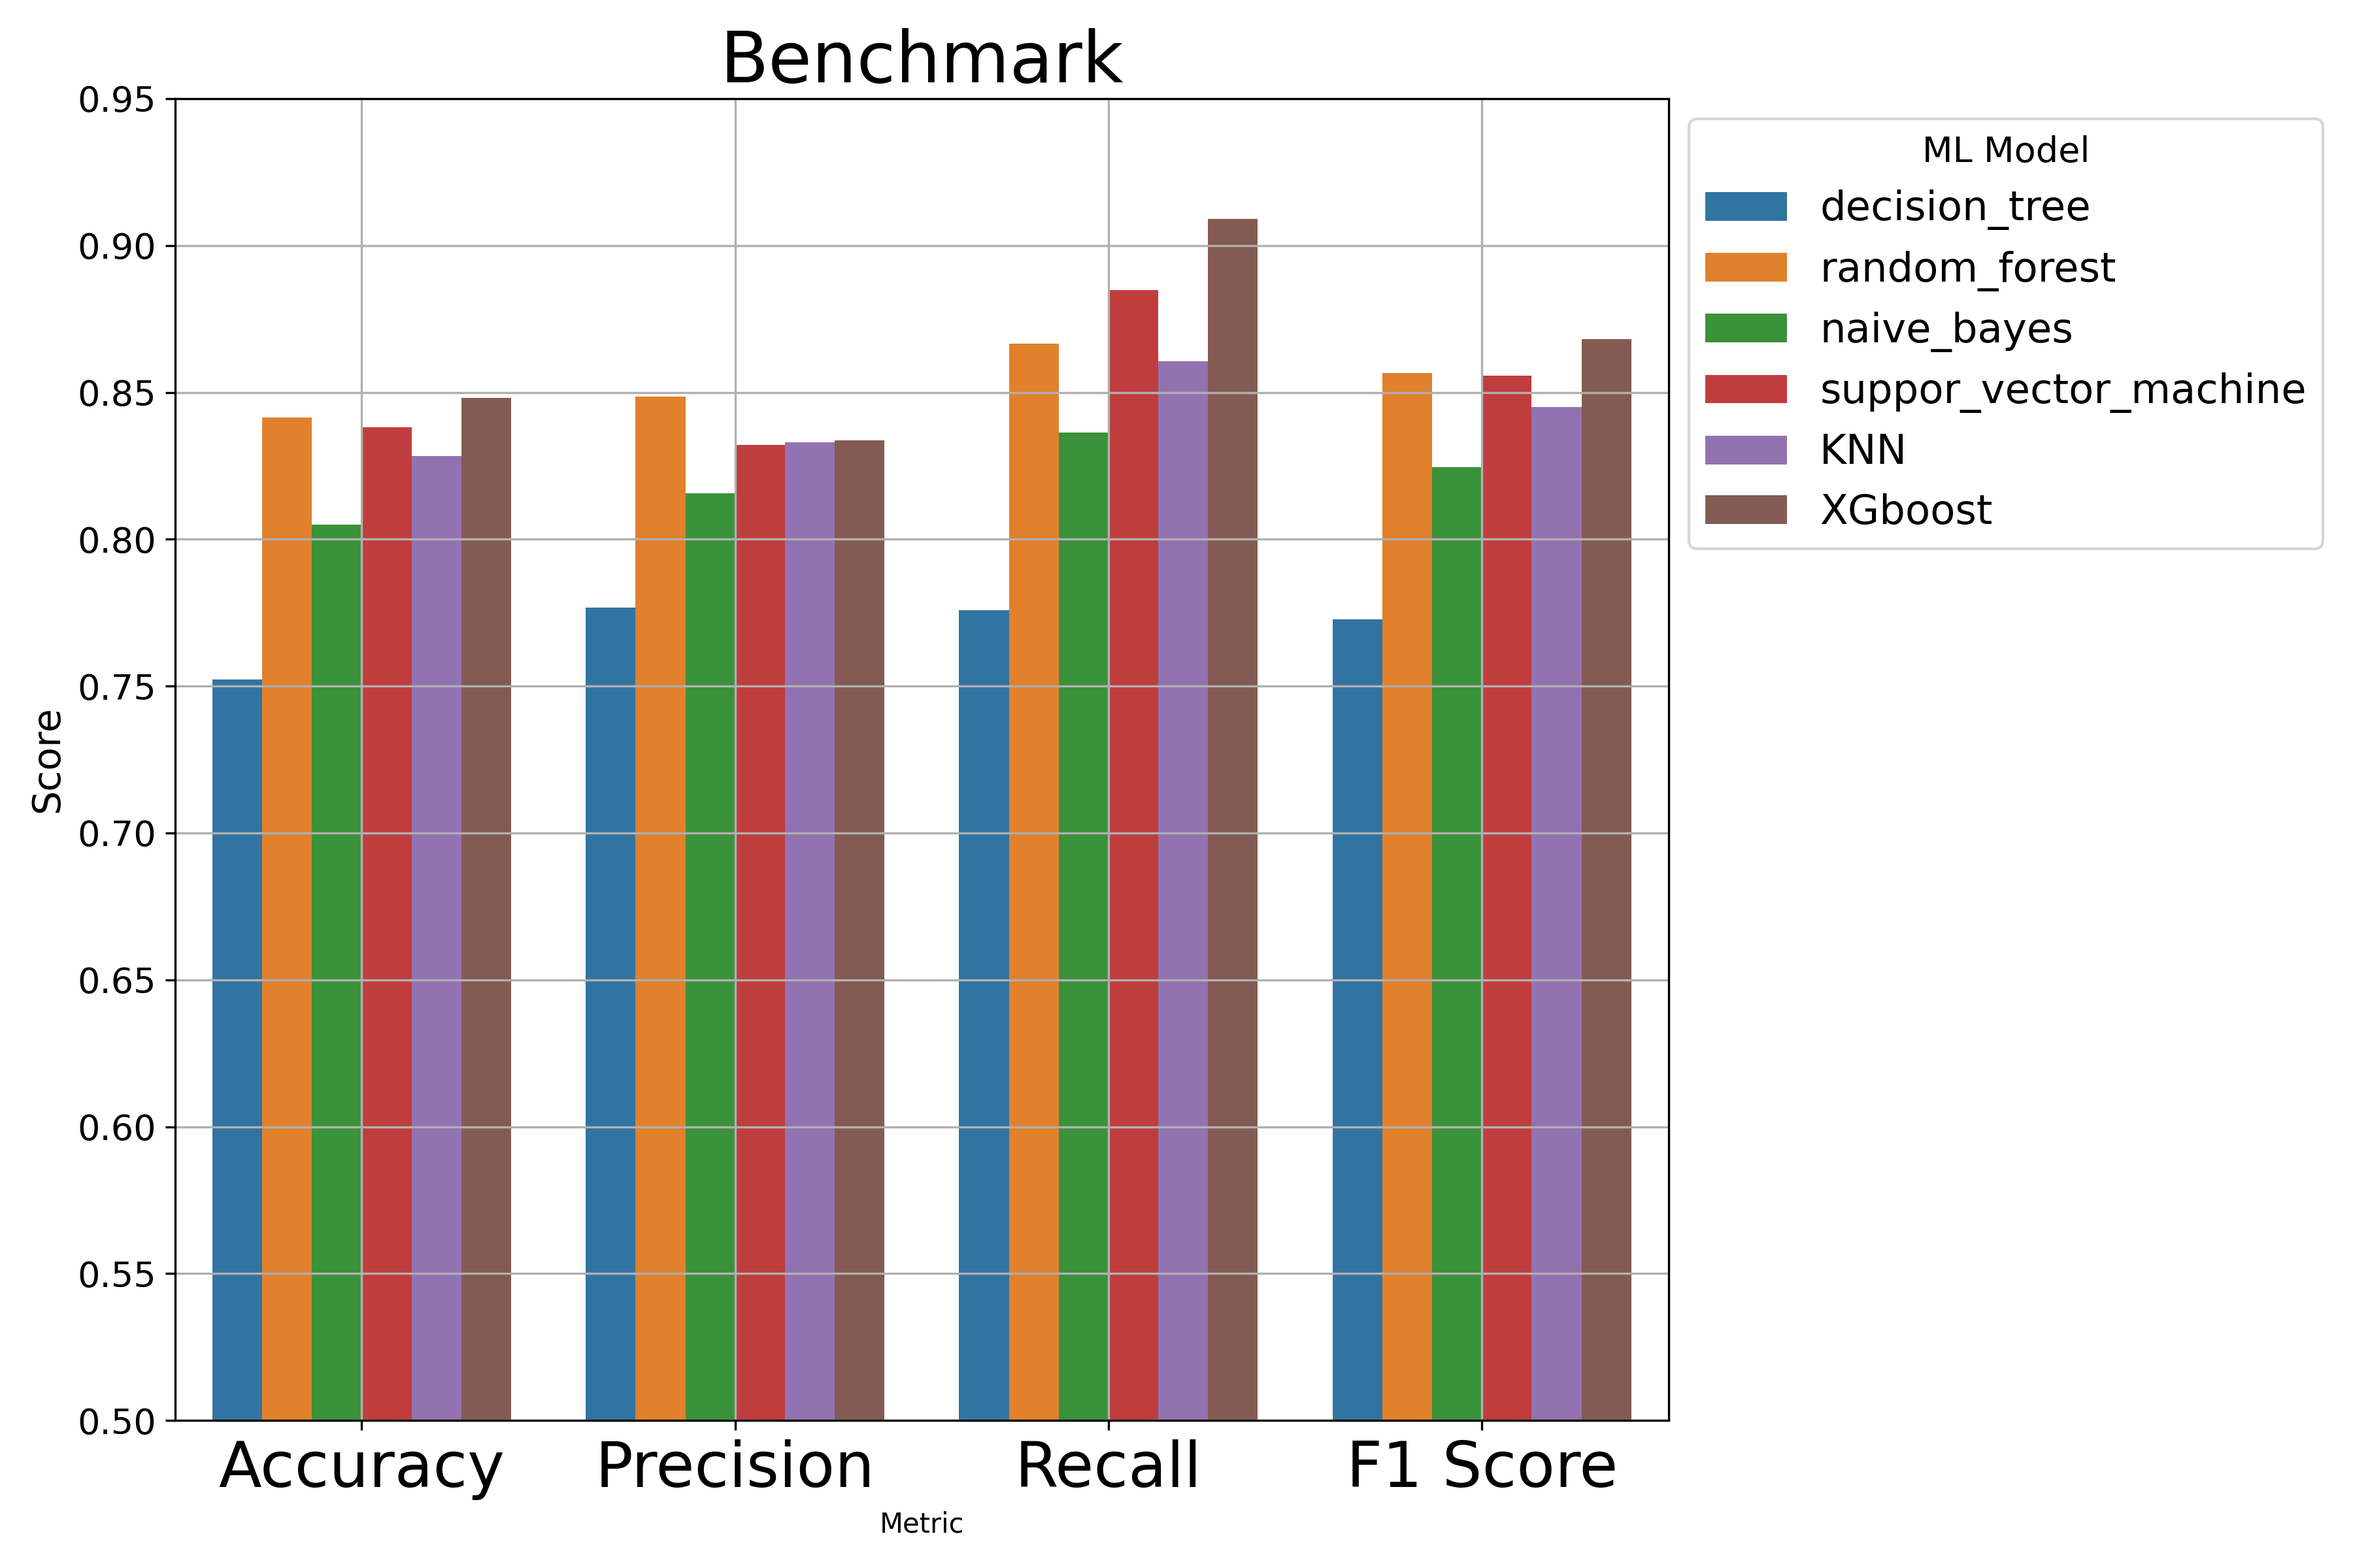
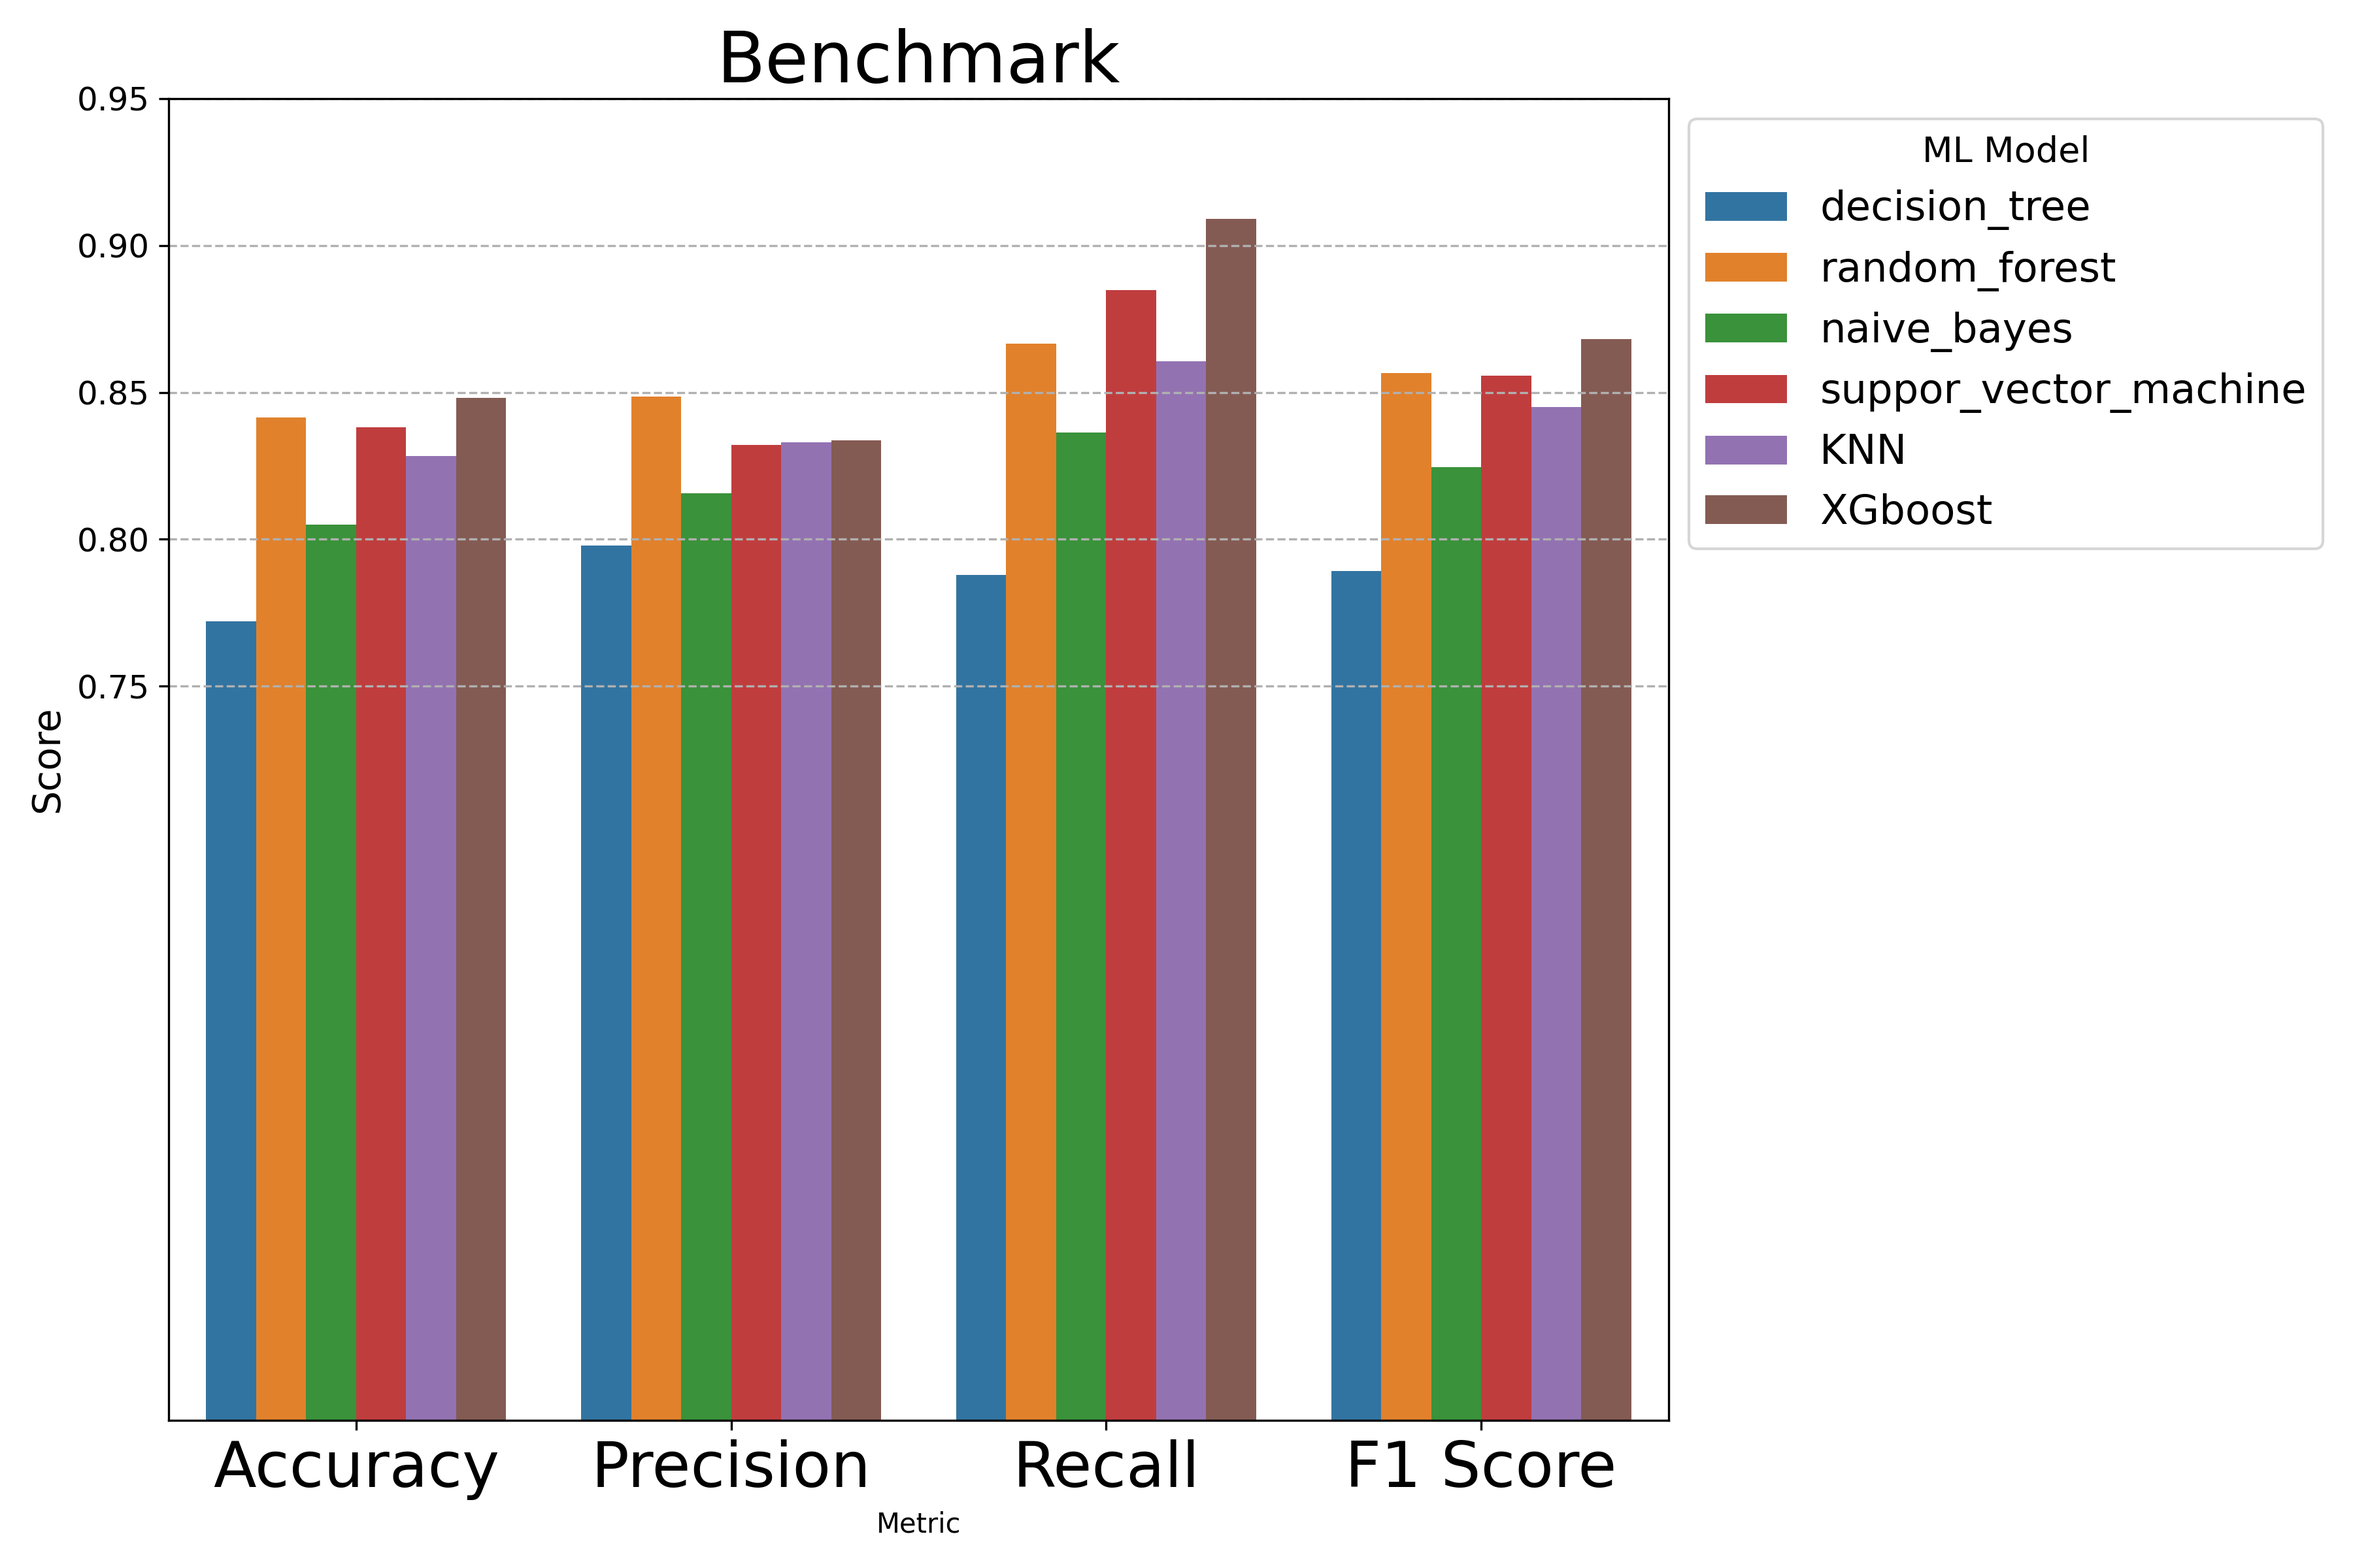
the final figures

diff --git a/app/analizer.py b/app/analizer.py
@@ -141,8 +141,9 @@ def benchmarkbar(bench_data):
     # Ajustar la leyenda
     plt.legend(title='ML Model', fontsize=15, title_fontsize='13', loc='upper left', bbox_to_anchor=(1, 1))  # Posicionamiento de la leyenda
     plt.xticks(fontsize=23)
-    plt.yticks(fontsize=13)
-    plt.grid()
+    plt.grid(axis='y', which='both', linestyle='--')
+    plt.yticks([0.75, 0.8, 0.85, 0.9, 0.95], fontsize=12)
+    
     # Ajustar el layout para evitar recortes y superposiciones
     plt.tight_layout()
 
@@ -156,10 +157,10 @@ def benchmark(bench_data):
 
     angles = [n/float(N) * 2 * np.pi for n in range(N)]
     angles += angles[:1] 
-    fig, ax = plt.subplots(figsize=(20,15), subplot_kw={'polar': True})
+    fig, ax = plt.subplots(figsize=(25,18), subplot_kw={'polar': True})
     plt.xticks(angles[:-1],categories, color='b',size=35)
     ax.set_rlabel_position(270)
-
+    plt.title("\nML methods Benchmark\n",size=50)
     for i in range(bench_data.shape[0]):
         values = bench_data.loc[i].drop('Model').values.flatten().tolist()
         values += values[:1]  # Se completa el círculo
@@ -170,10 +171,13 @@ def benchmark(bench_data):
         if label.get_text() == 'Accuracy' or label.get_text() == 'Recall' :
             label.set_horizontalalignment('left' if angle < np.pi else 'right')
             label.set_verticalalignment('bottom' if angle < np.pi/2 or angle > 3*np.pi/2 else 'top')
+    legend = plt.legend(loc='upper right', bbox_to_anchor=(0.25, 0.25), fontsize=30)
 
+    for line in legend.get_lines():
+        line.set_linewidth(4.0) 
     ax.set_yticklabels([])
     plt.tight_layout()
-    plt.legend(loc='upper right', bbox_to_anchor=(0.15, 0.15),fontsize=16)
+
     plt.savefig('output/bench.png', dpi=300)
     with open('output/benchmark_results.txt', 'w') as f:
         f.write("*******************************************************************\n")
